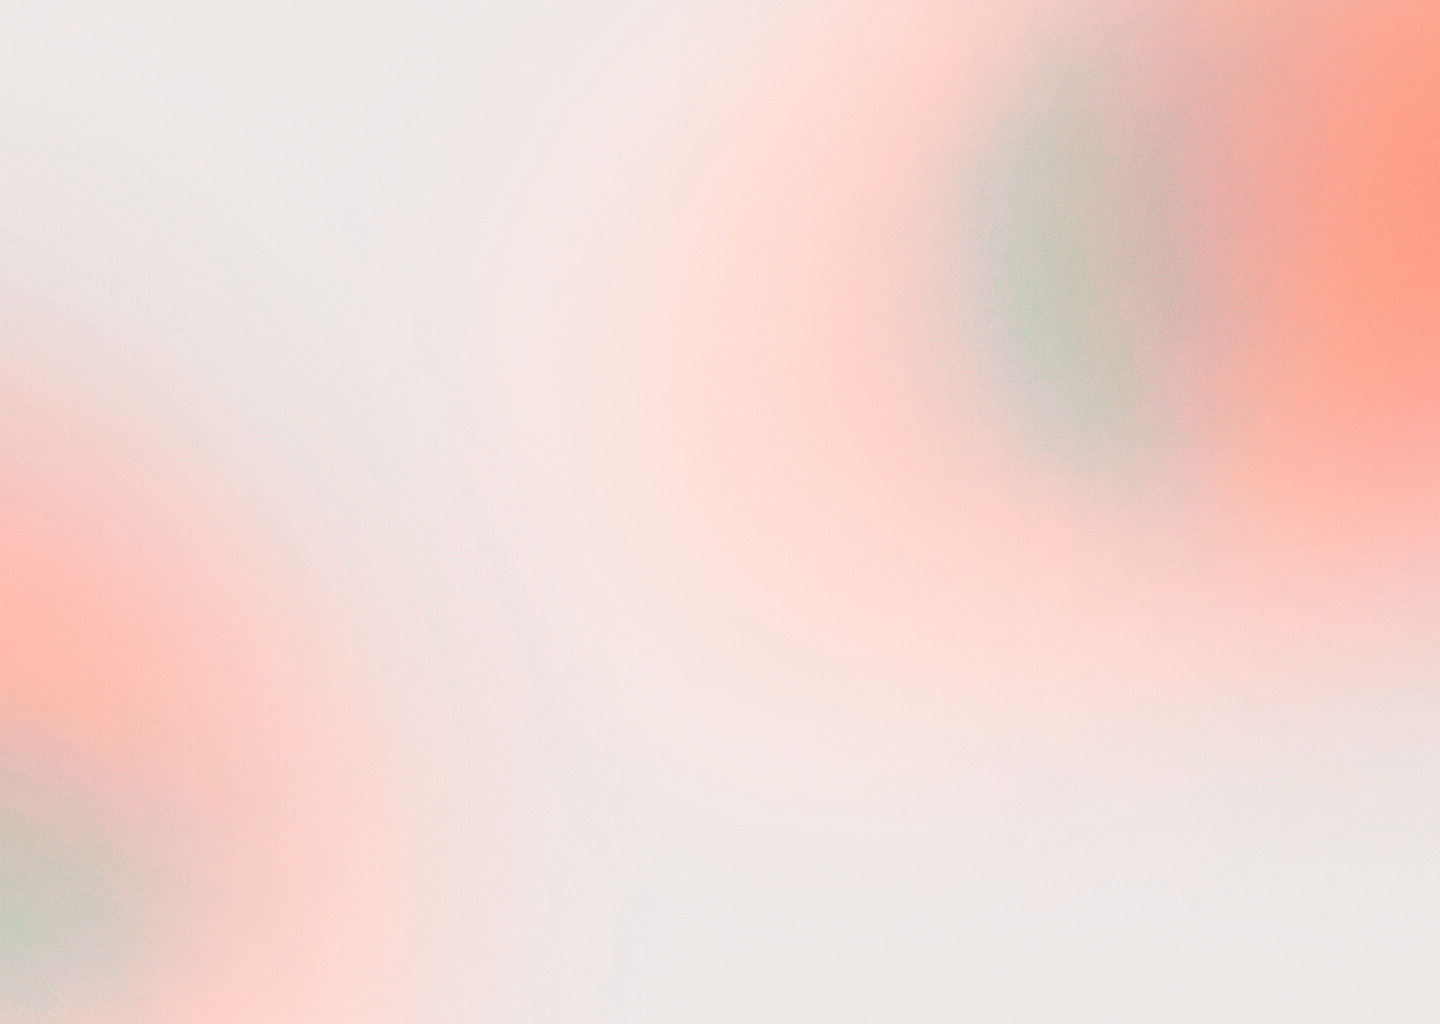
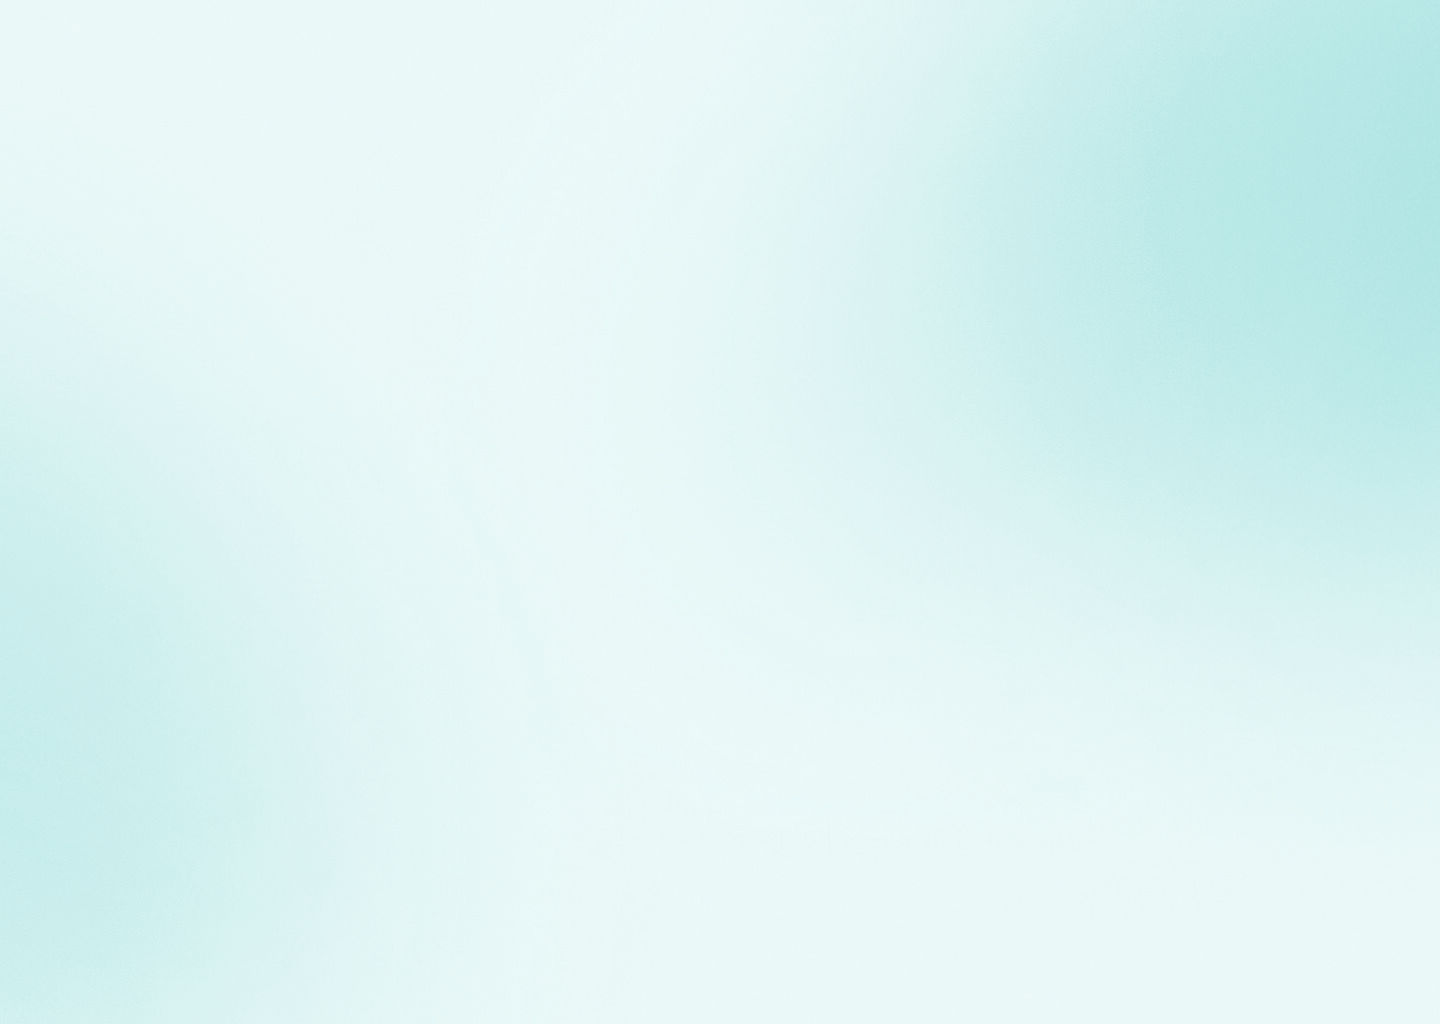
Ajustes finais e troca do background

diff --git a/style.css b/style.css
@@ -170,7 +170,7 @@ footer {
   }
 
   .light {
-    --bg-url: url(./assets/bg-desktop-light.jpg);
+    --bg-url: url(./assets/bg-desktop-light.png);
   }
 }
 
